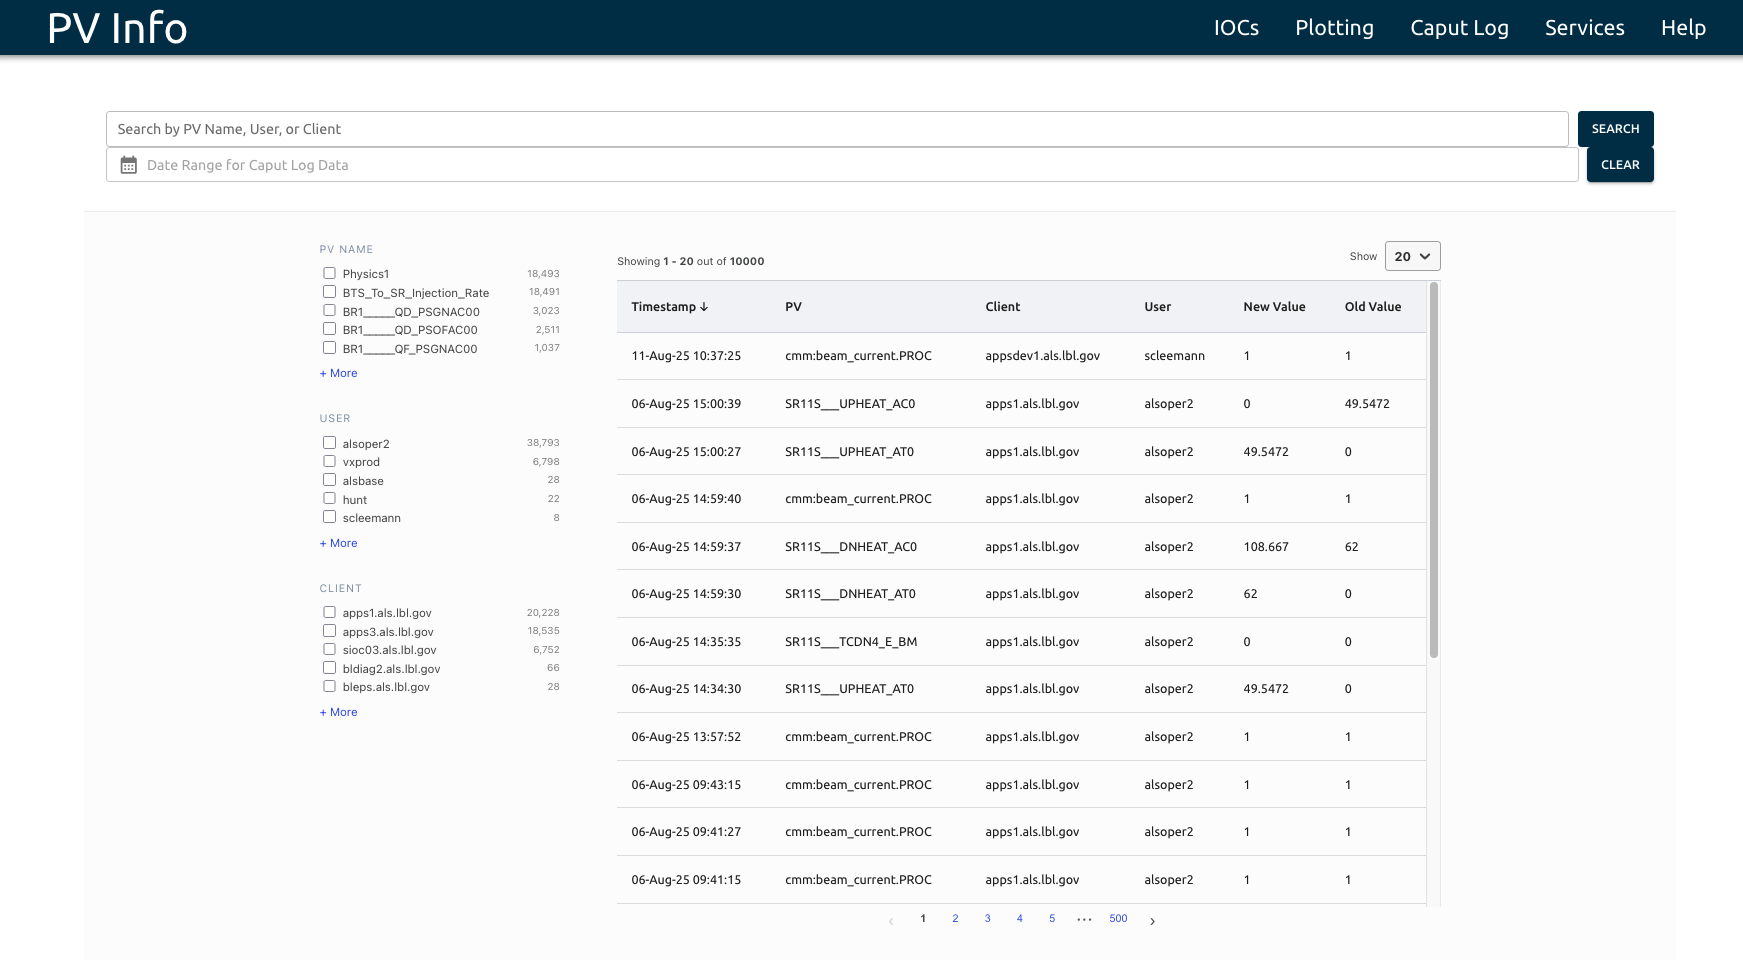
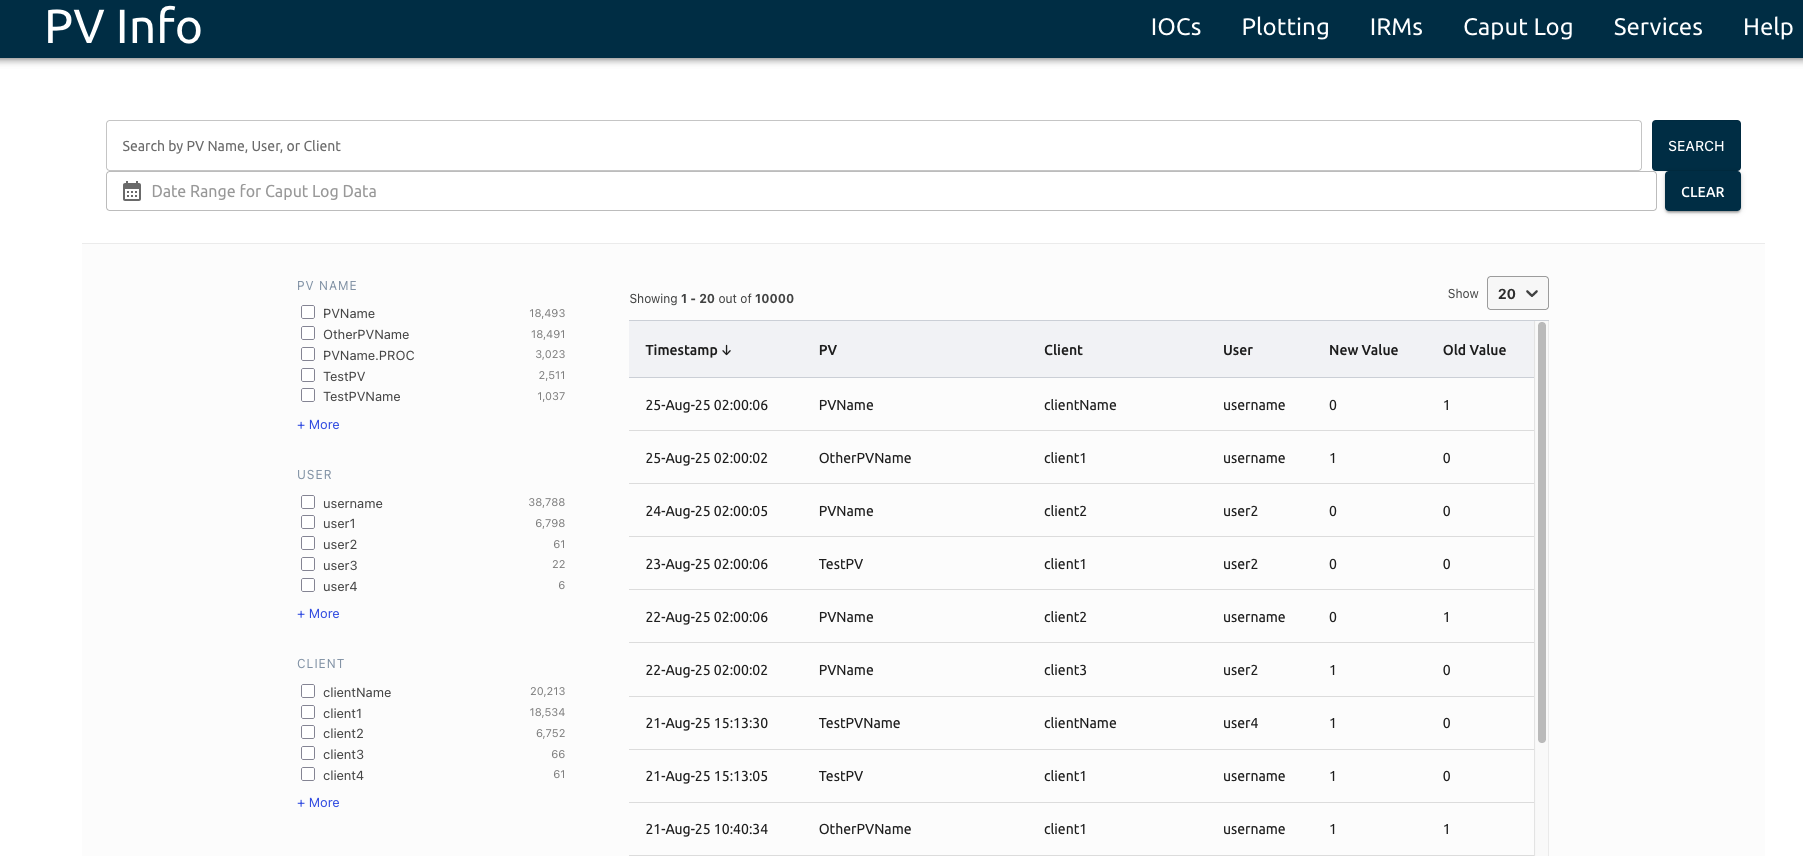
add custom elasticsearch connector for * function
add custom elasticsearch connector for * functionality. This will allow for * wildcard at the end of the search. Still working on implementing * as a wildcard anywhere in the search string.

use optional chain expression

fix date filter when searchTerm is used

remove unused initialSearchTerm and setSearch

remove console log statements

update caputlog search to work with * wildcard

fix caputlog prefix .* search, update examples

fix caputlog prefix .* search and update example screenshots

diff --git a/src/components/caputlog/CustomElasticSearchAPIConnector.js b/src/components/caputlog/CustomElasticSearchAPIConnector.js
@@ -1,0 +1,79 @@
+import ElasticSearchAPIConnector from "@elastic/search-ui-elasticsearch-connector";
+
+export default function CustomElasticSearchAPIConnector(config) {
+    return new ElasticSearchAPIConnector({
+        ...config,
+        getQueryFn: (state, queryConfig) => {
+            const searchTerm = state.searchTerm;
+            // Exclude @timestamp from search fields
+            const fields = queryConfig?.search_fields
+                ? Object.keys(queryConfig.search_fields).filter(f => f !== "@timestamp")
+                : [];
+            const keywordFields = fields.map(f => `${f}.keyword`);
+            let mainQuery;
+            if (searchTerm.endsWith('.*')) {
+                const prefix = searchTerm.slice(0, -2);
+                mainQuery = {
+                    multi_match: {
+                        query: prefix,
+                        type: "phrase_prefix",
+                        fields: fields
+                    }
+                };
+            } else {
+                // Build the main query
+                mainQuery = {
+                    bool: {
+                        should: keywordFields.map(field => ({
+                            wildcard: {
+                                [field]: {
+                                    value: searchTerm,
+                                }
+                            }
+                        }))
+                    }
+                };
+            }
+            // Build filters if present
+            let filter = [];
+            if (state.filters && state.filters.length > 0) {
+                filter = state.filters.map(f => {
+                    if (
+                        f.type === "all" &&
+                        f.field === "@timestamp" &&
+                        f.values.length === 1 &&
+                        typeof f.values[0] === "object" &&
+                        f.values[0].from &&
+                        f.values[0].to
+                    ) {
+                        // Date range filter (from Search UI's RangeFilter)
+                        return {
+                            range: {
+                                [f.field]: {
+                                    gte: f.values[0].from,
+                                    lte: f.values[0].to
+                                }
+                            }
+                        };
+                    }
+                    return {
+                        terms: {
+                            [f.field]: f.values
+                        }
+                    };
+                });
+            }
+
+            // Combine query and filters
+            const finalQuery = filter.length > 0
+                ? {
+                    bool: {
+                        must: [mainQuery],
+                        filter: filter
+                    }
+                }
+                : mainQuery;
+            return finalQuery;
+        }
+    });
+}

diff --git a/src/api.js b/src/api.js
@@ -1,5 +1,5 @@
 import { ApiProxyConnector } from "@elastic/search-ui-elasticsearch-connector";
-import ElasticSearchAPIConnector from "@elastic/search-ui-elasticsearch-connector";
+import CustomElasticSearchAPIConnector from "./components/caputlog/CustomElasticSearchAPIConnector";
 
 const channelFinderURL = import.meta.env.PROD ? import.meta.env.REACT_APP_CF_URL : import.meta.env.REACT_APP_CF_URL_DEV;
 const cfMaxResults = parseInt(import.meta.env.REACT_APP_CF_MAX_RESULTS);
@@ -27,15 +27,16 @@ const alarmLogMaxResults = import.meta.env.REACT_APP_AL_MAX_RESULTS !== '' ?
 const elasticIndexName = import.meta.env.REACT_APP_ELASTICSEARCH_INDEX_NAME;
 const elasticApikey = import.meta.env.REACT_APP_ELASTICSEARCH_API_KEY;
 // Choice to use Elasticsearch directly or an API Proxy
-const caputLogConnector = import.meta.env.REACT_APP_USE_CAPUT_API_PROXY_CONNNECTOR === "true"
-    ? new ApiProxyConnector({
-            basePath: `${caputlogURL}`
-        })
-    : new ElasticSearchAPIConnector({
-            host: `${caputlogURL}`,
-            index: `${elasticIndexName}`,
-            apiKey: `${elasticApikey}`
-        });
+const useProxy = import.meta.env.REACT_APP_USE_CAPUT_API_PROXY_CONNNECTOR ?? "false";
+const caputLogConnector = (useProxy === "true")
+        ? new ApiProxyConnector({
+                basePath: `${caputlogURL}`
+            })
+        : CustomElasticSearchAPIConnector({
+                host: `${caputlogURL}`,
+                index: `${elasticIndexName}`,
+                apiKey: `${elasticApikey}`
+            });
 
 function handleParams(params) {
     let urlParams = { "pvName": "*", "params": "" };

diff --git a/src/components/caputlog/CaputLogSearchLayout.jsx b/src/components/caputlog/CaputLogSearchLayout.jsx
@@ -15,19 +15,17 @@ const propTypes = {
         field: PropTypes.string.isRequired,
         label: PropTypes.string.isRequired,
     })),
-    initialSearchTerm: PropTypes.string,
     children: PropTypes.func.isRequired,
 }
 
 function CaputLogSearchLayout({
     showSearchBox = false,
     facetFields = [],
-    initialSearchTerm = "",
     children
 }) {
     const [startDate, setStartDate] = useState(null);
     const [endDate, setEndDate] = useState(null);
-    const { wasSearched, setFilter, removeFilter, results, setSort, setSearchTerm } = useSearch();
+    const { wasSearched, setFilter, removeFilter, results, setSort } = useSearch();
 
     // Set initial sort to @timestamp desc on mount
     useEffect(() => {
@@ -51,10 +49,9 @@ function CaputLogSearchLayout({
         }
     };
 
-    const clearAllFilters = () => {
+    const clearDateFilters = () => {
         setStartDate(null);
         setEndDate(null);
-        setSearchTerm(initialSearchTerm);
         removeFilter("@timestamp");
     };
 
@@ -101,7 +98,7 @@ function CaputLogSearchLayout({
                                         }
                                     />
                                 </Box>
-                                <Button variant="contained" onClick={clearAllFilters}>
+                                <Button variant="contained" onClick={clearDateFilters}>
                                     Clear
                                 </Button>
                             </Box>

diff --git a/src/components/pv/caputlogtable/CaputLogTable.jsx b/src/components/pv/caputlogtable/CaputLogTable.jsx
@@ -21,7 +21,7 @@ function CaputLogTable(props) {
 
     const searchConfig = getCaputLogSearchConfig({
         search_fields: { pv: { weight: 3 } },
-        initialState: { searchTerm: props.pvName ? `${props.pvName}*` : "" }
+        initialState: { searchTerm: props.pvName ? `${props.pvName}.*` : "" }
     });
 
     return (
@@ -37,7 +37,6 @@ function CaputLogTable(props) {
                             { field: "user.keyword", label: "User" },
                             { field: "client.keyword", label: "Client" },
                         ]}
-                        initialSearchTerm={ props.pvName ? `${props.pvName}*` : "" }
                     >
                         {(results) => <CaputLogDataTable results={results} />}
                     </CaputLogSearchLayout>
